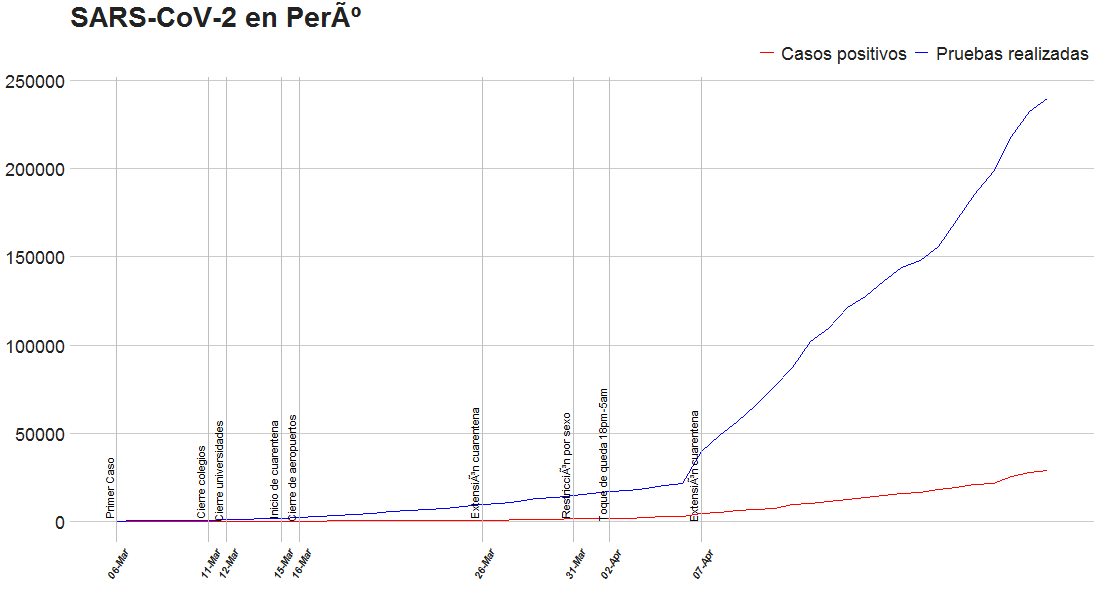
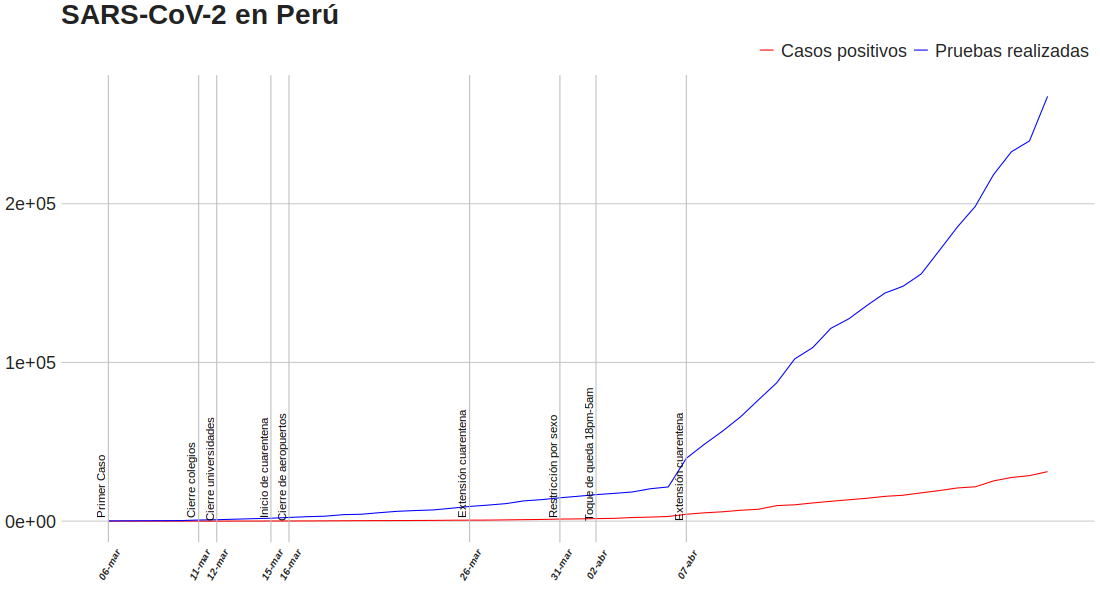
actualizacion de graficos al 2020-04-28

diff --git a/proyectos/covid19/_posts/2020-03-30-datos-covid-peru.md b/proyectos/covid19/_posts/2020-03-30-datos-covid-peru.md
@@ -67,7 +67,7 @@ github: https://github.com/ce4-peru/covid19
             };
             //--------------------------------------->
             //Aqui se tiene que actualizar la fecha-->
-            actualizarFecha('27 de abril 22:52 hora de Perú');
+            actualizarFecha('28 de abril 20:00 hora de Perú');
             //--------------------------------------->
         </script>  
 </body>		
